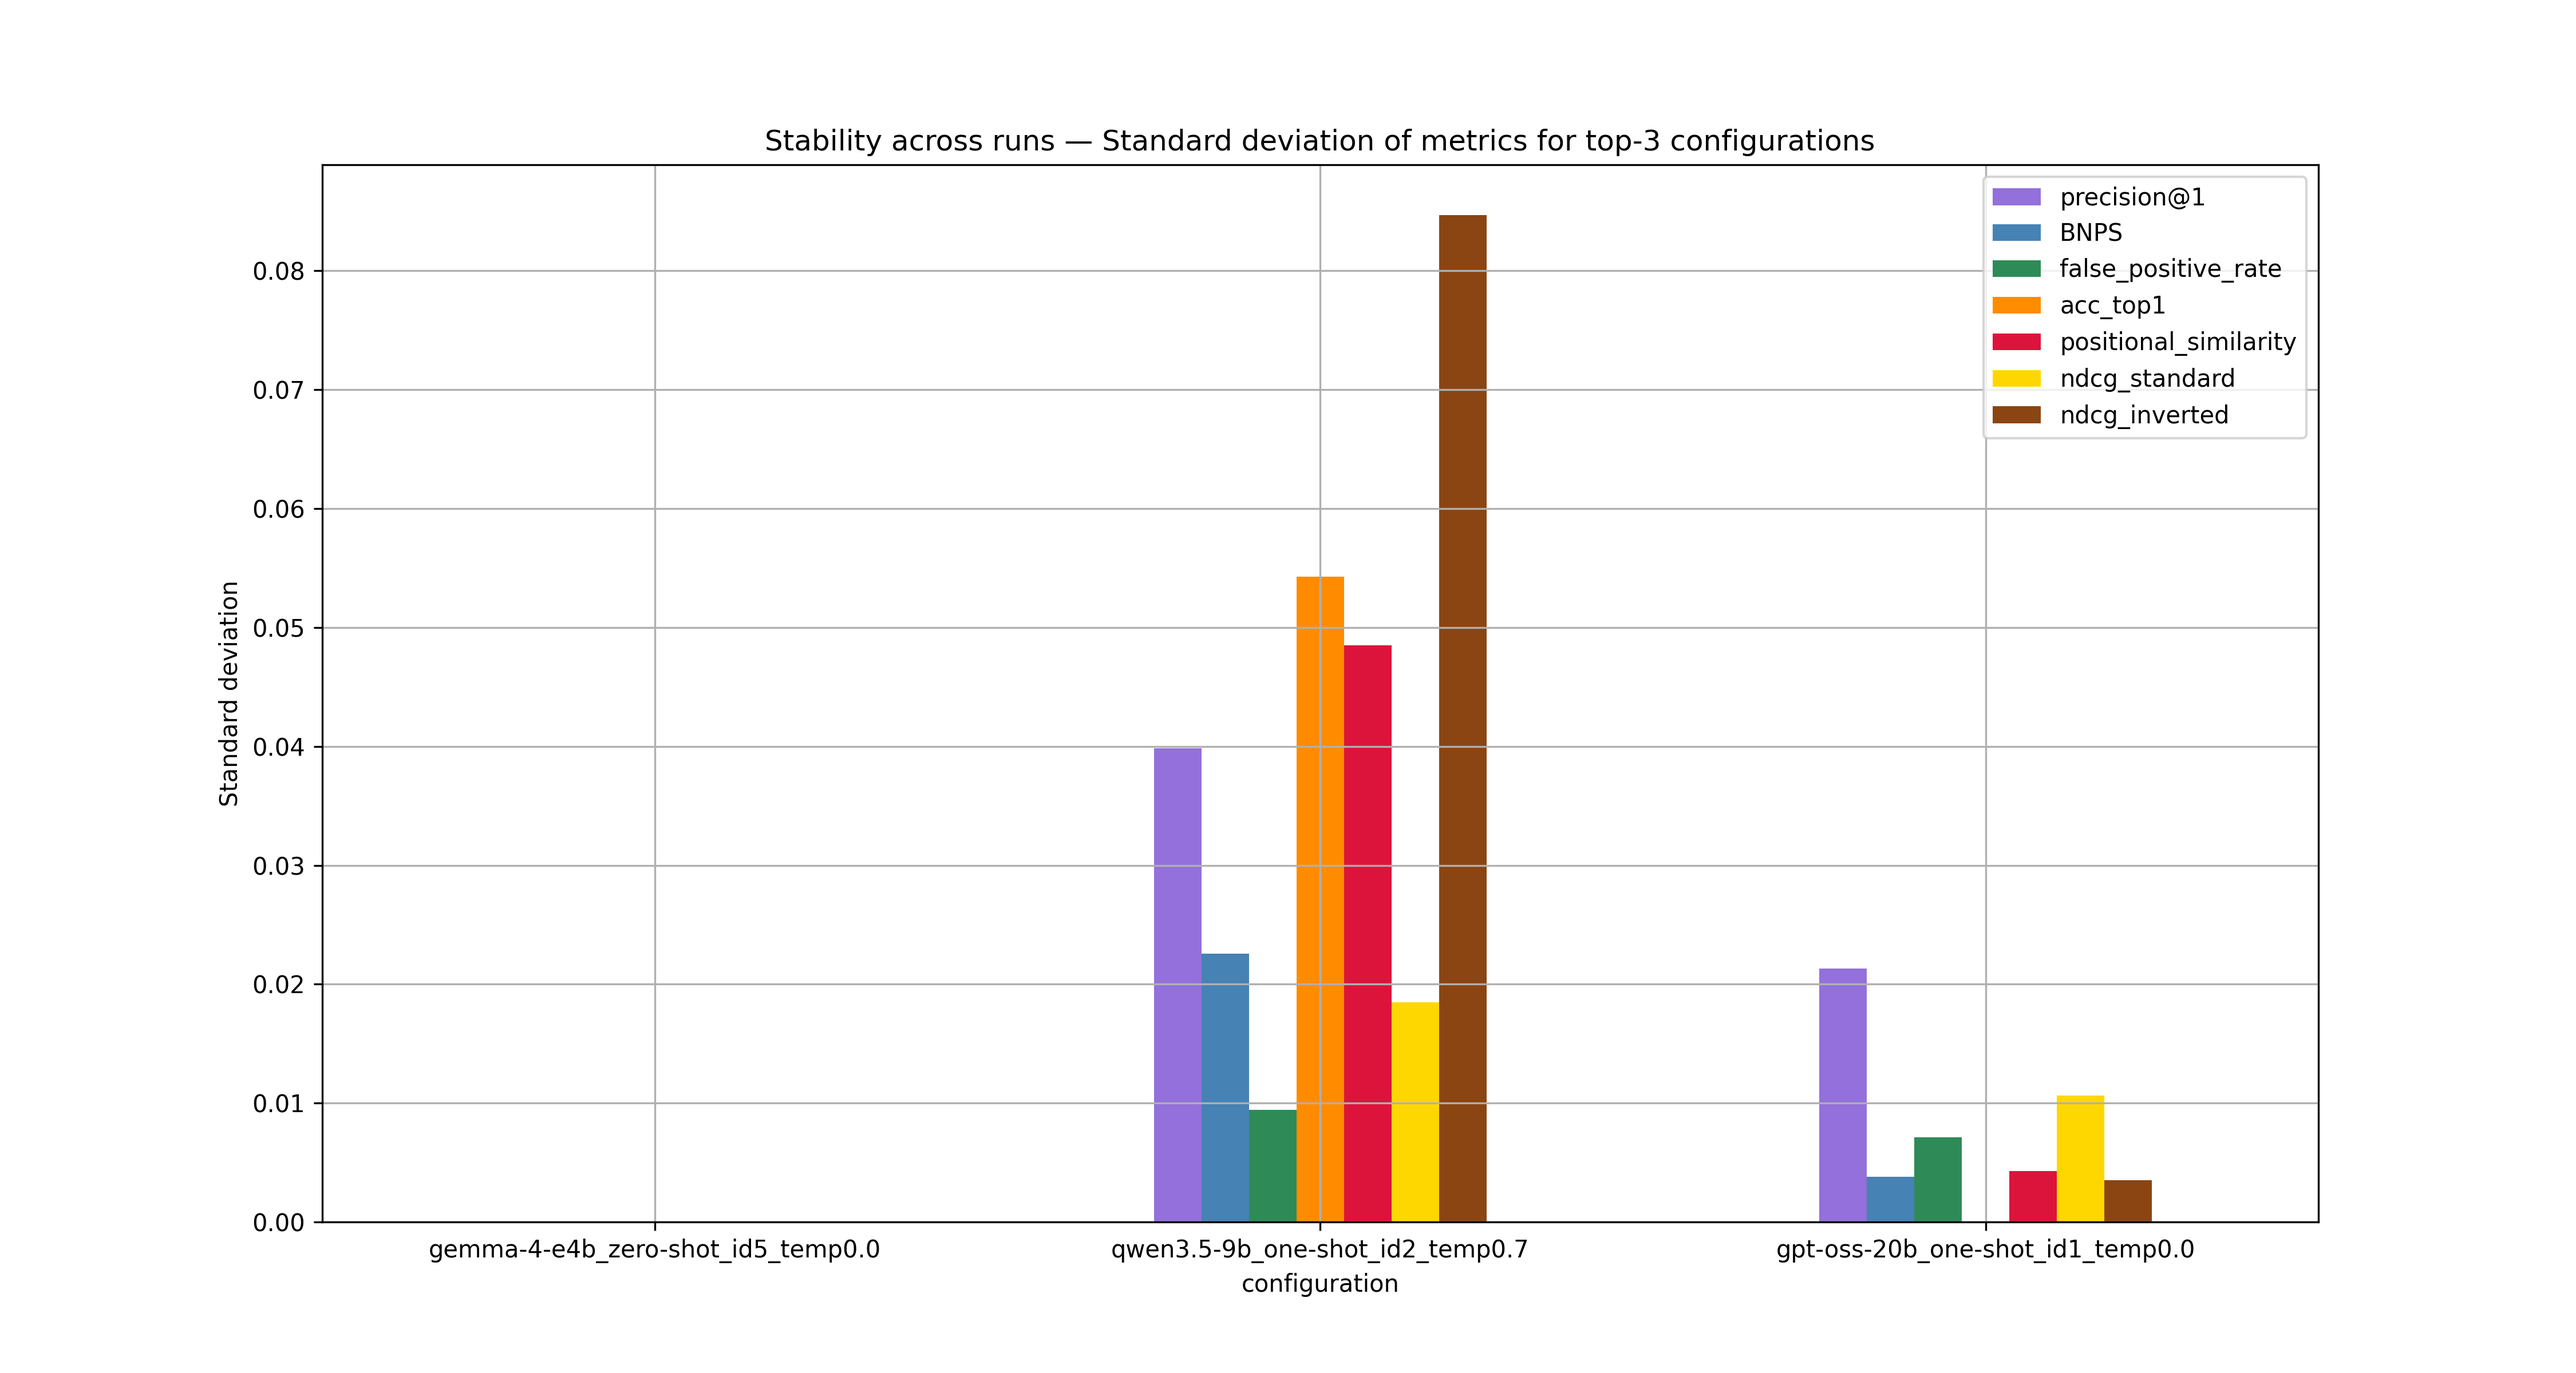
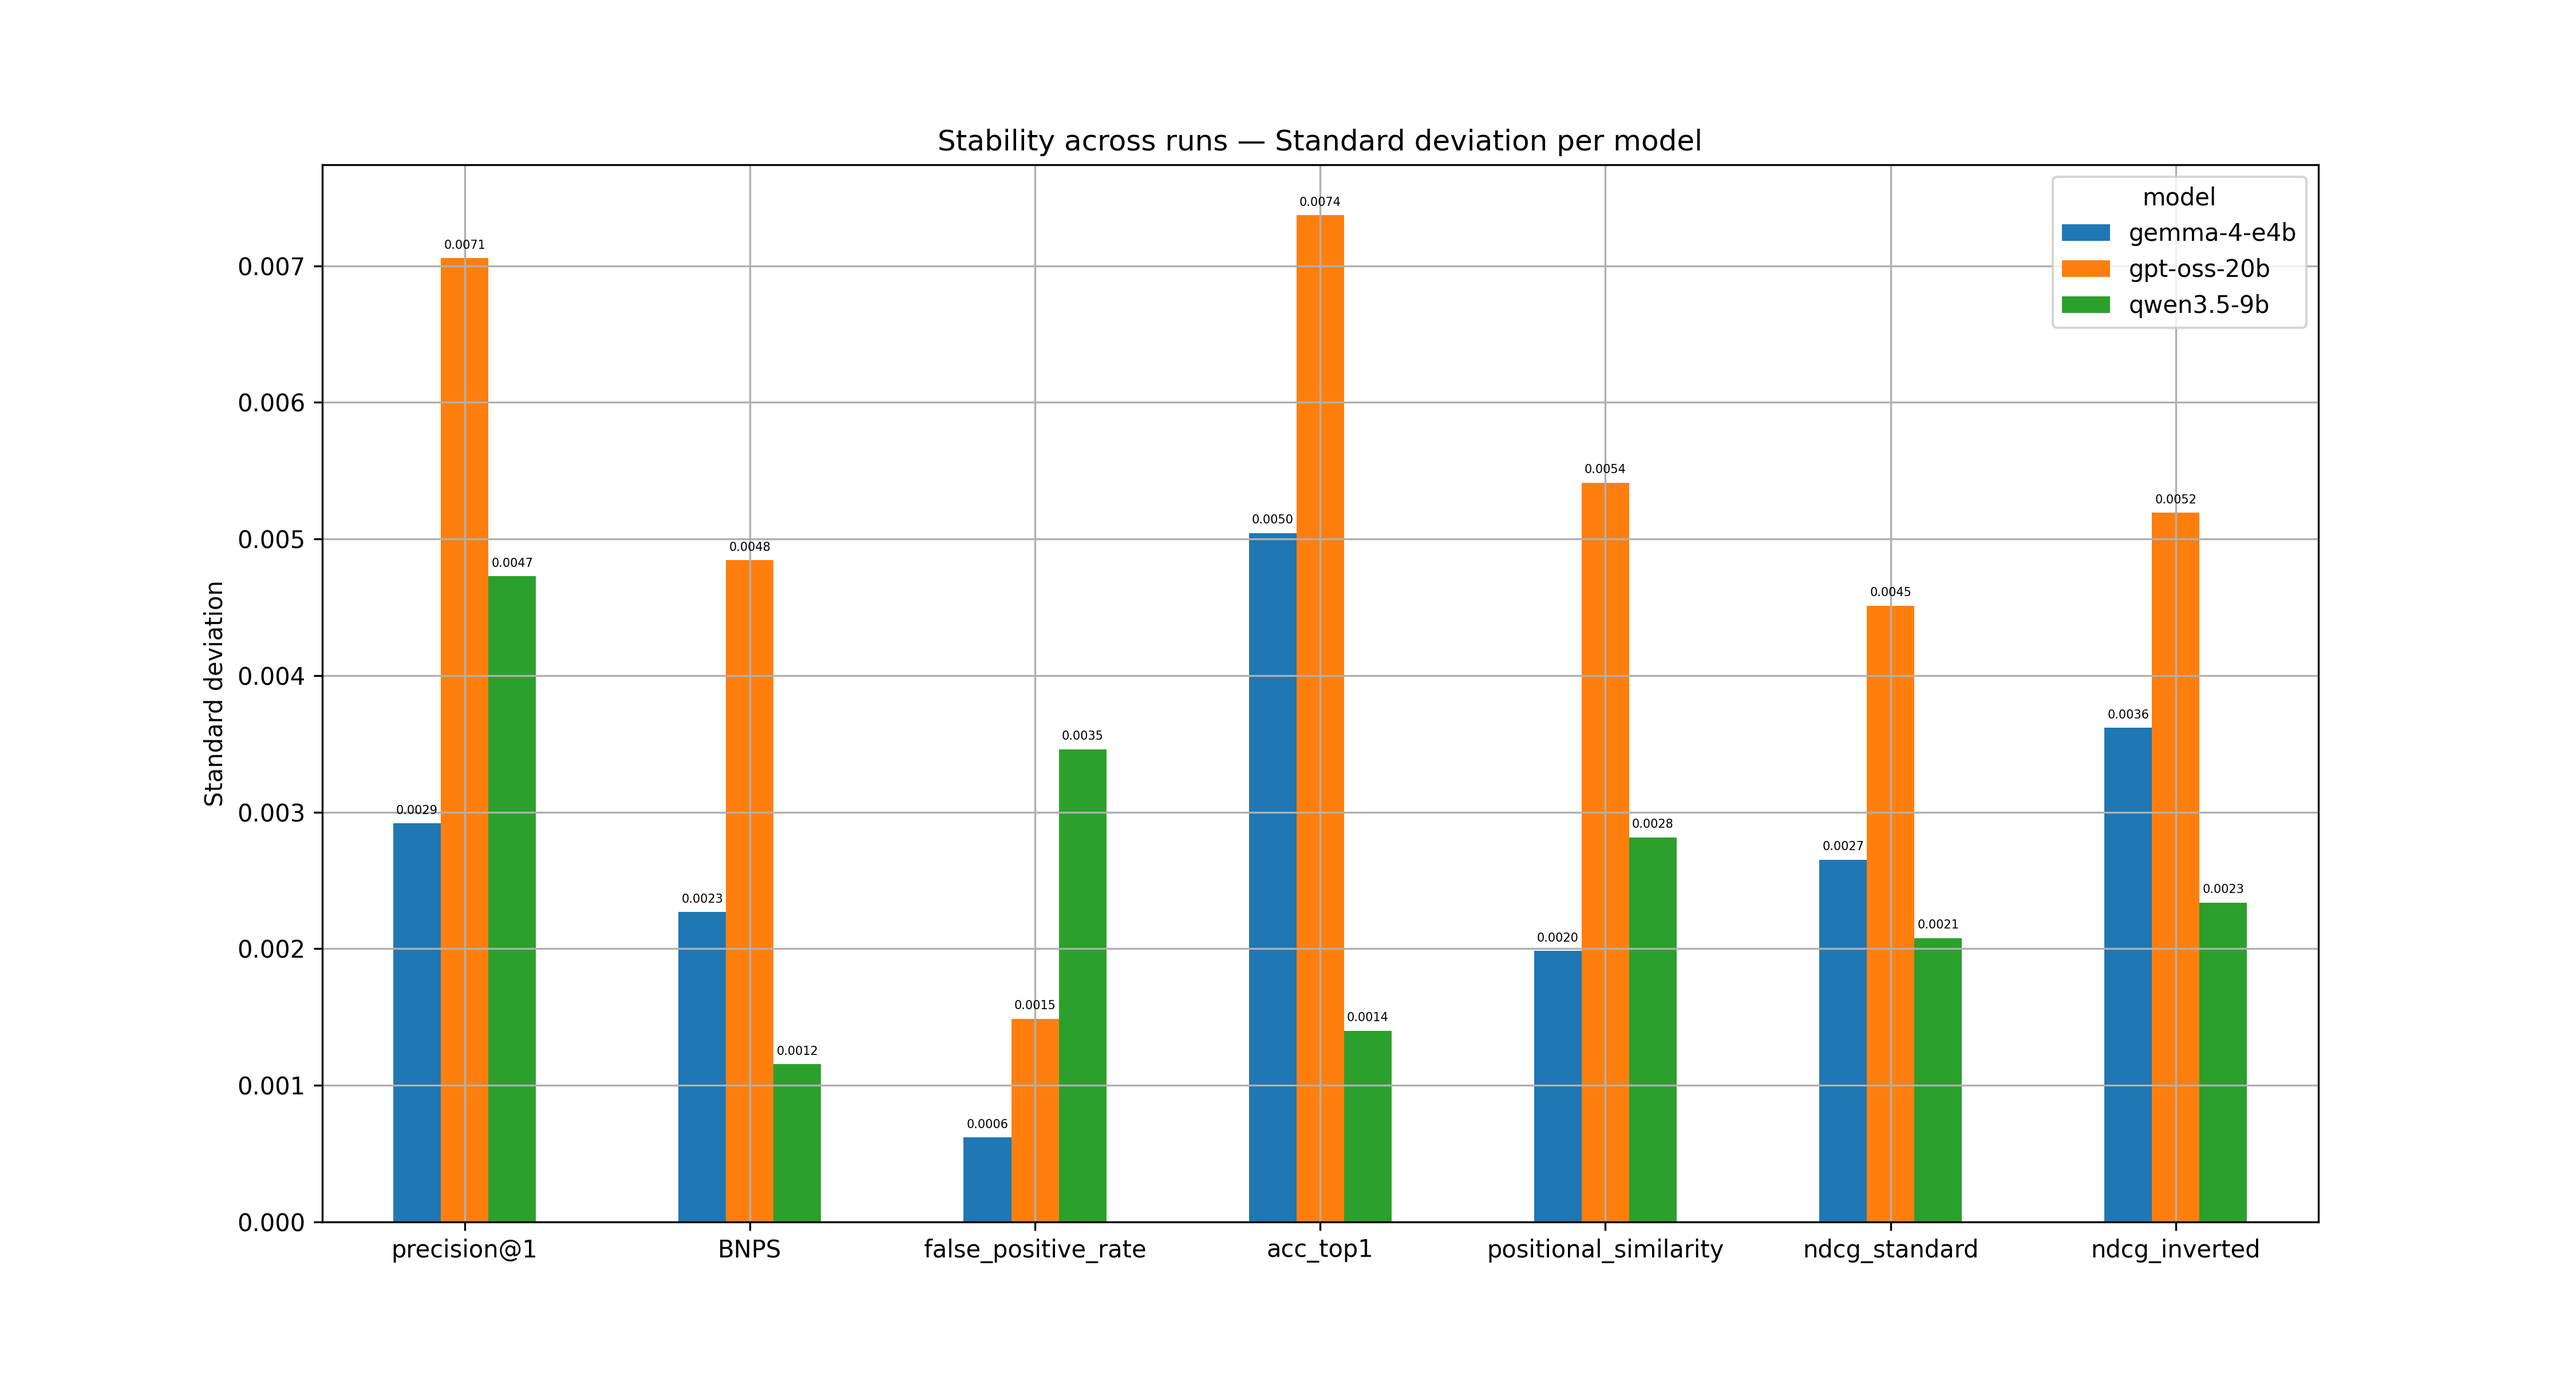
Refactor plots.py

diff --git a/data/plot.py b/data/plot.py
@@ -124,45 +124,42 @@ def plot_design_patterns_performance():
         plt.savefig(output_path)
 
 def plot_stability():
-    best_confs = ["gemma-4-e4b_zero-shot_id5_temp0.0.csv", "qwen3.5-9b_one-shot_id2_temp0.7.csv",
-                  "gpt-oss-20b_one-shot_id1_temp0.0.csv"]
-    names = {
-        "gemma-4-e4b_zero-shot_id5_temp0.0.csv": "gemma-4-e4b_zero-shot_id5_temp0.0",
-        "qwen3.5-9b_one-shot_id2_temp0.7.csv": "qwen3.5-9b_one-shot_id2_temp0.7",
-        "gpt-oss-20b_one-shot_id1_temp0.0.csv": "gpt-oss-20b_one-shot_id1_temp0.0"
-    }
 
+    rows = []
+    # average results extraction for each conf.
+    base_dir = "avg_results/runs_avg_results"
+    if not os.path.exists(base_dir):
+        print(f"{base_dir} does not exist", file=sys.stderr)
+        exit(1)
+    if not os.path.isdir(base_dir):
+        print(f"{base_dir} is not a directory", file=sys.stderr)
+        exit(1)
 
-    standard_deviations = []
-    for best_conf in best_confs:
-        # average results extraction for each conf.
-        base_dir = "results/evaluated"
-        run_dirs = [d for d in os.listdir(base_dir) if
-                    d.startswith("run_") and os.path.isfile(os.path.join(base_dir, d, best_conf))]
-        if not run_dirs:
-            print(f"No run found for {best_conf}", file=sys.stderr)
+    rows = []
+    for run_avg_results in os.listdir(base_dir):
+        if not run_avg_results.endswith(".csv"):
+            print(f"{run_avg_results} is not a csv file", file=sys.stderr)
             continue
 
-        frames = []
-        for run_dir in run_dirs:
-            tmp = pd.read_csv(os.path.join(base_dir, run_dir, best_conf))
-            frames.append(tmp)
+        tmp = pd.read_csv(os.path.join(base_dir, run_avg_results))
+        tmp[METRICS] = tmp[METRICS].astype(float)
+        tmp = tmp.groupby("model")[METRICS].mean()      # avg performance per run
+        rows.append(tmp)
 
-        df = pd.concat(frames)
+    combine = pd.concat(rows)
 
-        # average results per run
-        run_means = pd.DataFrame([f[METRICS].mean() for f in frames])
-        std = run_means.std()       # std between runs, on std per metric: it's a Pandas series with index=metrics
-        std["configuration"] = names[best_conf]
-        standard_deviations.append(std)
+    # average results per run
+    std = combine.groupby("model").std()       # std between runs, on std per metric: it's a Pandas series with index=metrics
+    std = std.T         # models are now columns, metrics on rows
+    ax = std.plot.bar(figsize=(15, 8))
+    for container in ax.containers:
+        ax.bar_label(container, fmt="%.4f", padding=3, fontsize= 5)
 
-    color = [METRIC_COLORS[m] for m in METRICS]
-    df = pd.DataFrame(standard_deviations).set_index("configuration")
-    df.plot.bar(figsize=(15, 8), color=color)
     plt.xticks(rotation=0)
     plt.grid(True)
-    plt.title("Stability across runs — Standard deviation of metrics for top-3 configurations")
+    plt.title("Stability across runs — Standard deviation per model")
     plt.ylabel("Standard deviation")
+    plt.rcParams['figure.dpi'] = 300
     output_path = "plots/stability-across-runs.png"
     plt.savefig(output_path)
 

diff --git a/README.md b/README.md
@@ -385,42 +385,47 @@ contiene dei codici refactored aggiunti per espandere il dataset di partenza.
 
 # # WEEKS 8-9 (27-04-2026 - 13-05-2026)
 
-- aggiungere accuracy top 1 effettiva, introdurre ndcg a parametri invertiti, similarità posizionale e media di queste
+- aggiunte accuracy top 1 effettiva, introdurre ndcg a parametri invertiti, similarità posizionale e media di queste
   ultime 3 (BNPS aka Bidirectional Ndcg & Positional Score)—> 7 metriche in totale.
-- introdurre iperparametro della temperatura (valori: 0.0, 0.3, 0.5, 0.7)
-- correggere prompt (return lista ordinata deve essere sostituita con descrizione output atteso)
-- introdurre varianti di prompt dove scambio l’ordine dei moduli base, role e rules 
-- introdurre un prompt dove chiedo un miglioramento a chat gpt 
-- eseguire grid search, selezionare iperparametri migliori
-- fissati gli iperparametri (shot type incluso), tracciare grafici sulle tre categorie di design patterns considerando 
-  le metriche fake accuracy top 1 e BNPS per esibire la performance sulle varie categorie
-- (opzionale) considerate di modificare l’esempio dato in input e ripetere passo precedente. Aggiungere descrizioni in 
-  inglese ai codici di tutto il dataset 
+- introdotto iperparametro della temperatura (valori: 0.0, 0.3, 0.5, 0.7)
+- corretta la descrizione dell'output atteso nei prompt 
+- introdotte varianti di prompt dove si scambia l’ordine dei moduli base, role e rules 
+- introdotto un prompt dove si domanda un miglioramento a chat gpt 
+- eseguita una grid search selezionando iperparametri migliori (model assessment)
+- eseguite 4 run complete dell'esperimento
+- creati alcuni grafici per spiegare i risultati ottenuti
 
-Sono stati inseriti nuovi prompt riordianando "id 2" con due varianti significative: anticipare la descrizione 
-dell'output e invertendo l'assegnamento del task con le regole. "Role" non è stato cambiato di posizione in quanto 
-sempre in testa per convenzione, è stato ritenuto che permutare anche esso non avrebbe quindi prodotto alternative
+Sono stati inseriti nuovi prompt riordianando il promot "id 2" con due varianti significative: anticipando la
+descrizione dell'output e invertendo l'assegnamento del task con le regole. "Role" non è stato cambiato di posizione in
+quanto sempre in testa per convenzione: è stato ritenuto che permutare anche esso non avrebbe prodotto alternative 
 interessanti.
 
 Le metriche utilizzate per valutare le performance in totale sono 7:
 [precision@1, BNPS, false_positive_rate, acc_top1, positional_similarity, ndcg_standard, ndcg_inverted].
 Le prime due della lista, di cui la seconda ottenuta come una media aritmetica delle ultime 3, sono state prese come
 riferimento nella scelta delle migliori configurazioni (a livello di shot type, temperatura e prompt sottomesso) per i
-tre modelli. Lo studio è stato condotto eseguendo iterativamente tutte 144 possiibli configurazioni sul training set
-(3 modelli * 2 shot_type * 4 temperature * 6 prompt_label) su una macchina Windows, considerando quindi per necessità
-architetturali solo le versioni GGUF. Gpt-oss-20b ha richiesto di essere eseguito in versione quantizzata (Q8) per 
-causa di limiti hardware.
+tre modelli. Lo studio è stato condotto sottomettendo iterativamente i prompt a tutte 144 possiibli configurazioni, 
+considerando solo codici appartenenti al training set (3 modelli * 2 shot_type * 4 temperature * 6 prompt_label = 144) 
+L'esecuzione è avvenuta su una macchina Windows, considerando quindi per necessità architetturali solo le versioni GGUF
+dei modelli. Gpt-oss-20b ha richiesto di essere eseguito in versione quantizzata (Q8) a causa di limiti hardware.
 
 Al fine di contratstare l'aleatoreità dei risultati, l'esperimento è stato ripetuto in 5 run differenti. È emerso un 
-problema con gpt-oss 20b e qwen i quali, a causa di un probabile bug nel motore locale di LM studio, non rispettano 
-il vincolo di fornire in output items unici: ne consegue che in alcune predizioni il modello "spamma" più volte lo 
+problema con gpt-oss 20b il quale, a causa di un probabile bug nel motore locale di LM studio, non ha rispettato 
+il vincolo di fornire in output items unici: ne consegue che in alcune predizioni il modello abbia ripetuto più volte lo 
 stesso pattern (https://github.com/lmstudio-ai/lmstudio-bug-tracker/issues/1105).
-Ciò degrada probabilmente la qualità dell'intera predizione, il problema dovrebbe essere comunque limitato a pochi csv,
-Per risolvere è stato applicato del post processing sui file csv al fine di eliminare i duplicati dalle liste di
-predizione, eliminando i duplicati.
+Ciò degrada probabilmente la qualità dell'intera predizione, il problema è circoscritto solo a predizioni effettuate con
+temperature più elevate (0.5 e 0,7). Per risolvere è stato applicato post processing sui file csv contenenti tali 
+predizioni "errate", al fine di eliminare i duplicati dalle liste di predizione mantenendo l'ordine originale scelto dal
+modello.
+
 È emersa inoltre una seconda caratteristica: su Windows, col seed fissato, l'esperimento è riproducibile in qualsiasi
 conigurazione, indipendentemente quindi dalla scelta del modello, della temperatura, dello shot type o del prompt. 
-Tale aspetto invece non emerge su macos, che per sua natura non garantisce riproducibilità col seed fissato
+Tale aspetto invece non emerge su mac, che per sua natura non garantisce riproducibilità col seed fissato
 (https://adityakarnam.com/mlx-non-determinism-apple-silicon/). 
 Per misurare più accuratamente le performance delle varie configurazioni, tutte le run sono state eseguite senza seed 
 fissato. 
+
+
+TODO: 
+- (opzionale) considerate di modificare l’esempio dato in input e ripetere passo precedente.
+- Aggiungere descrizioni in inglese ai codici di tutto il dataset 
